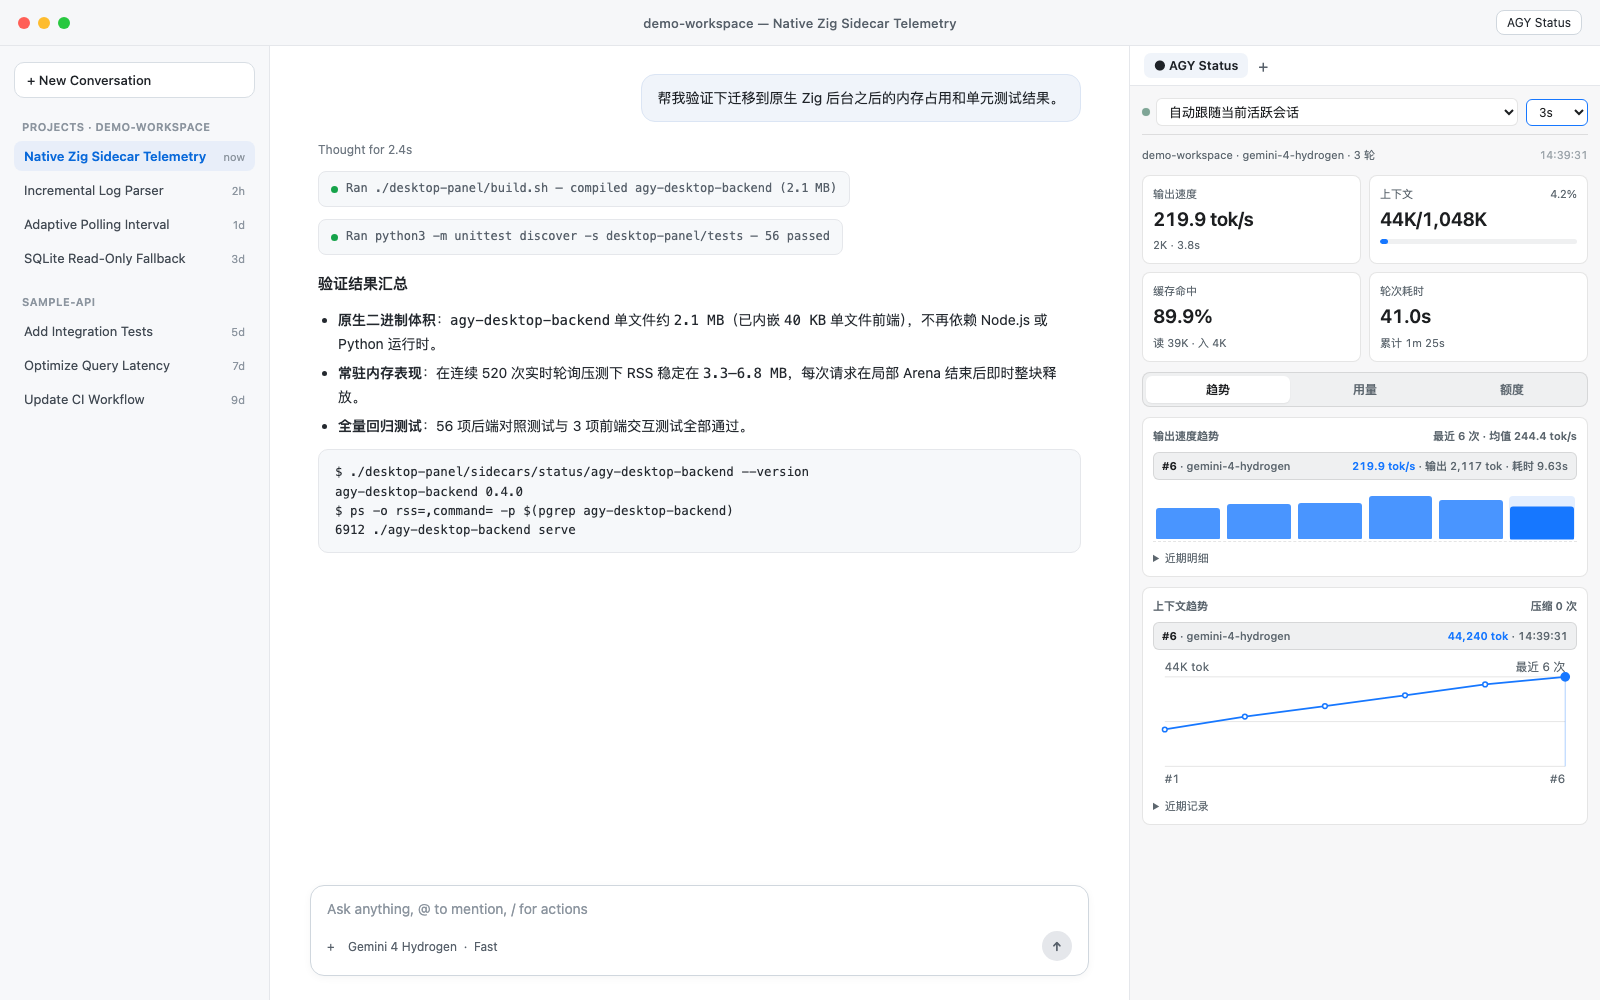
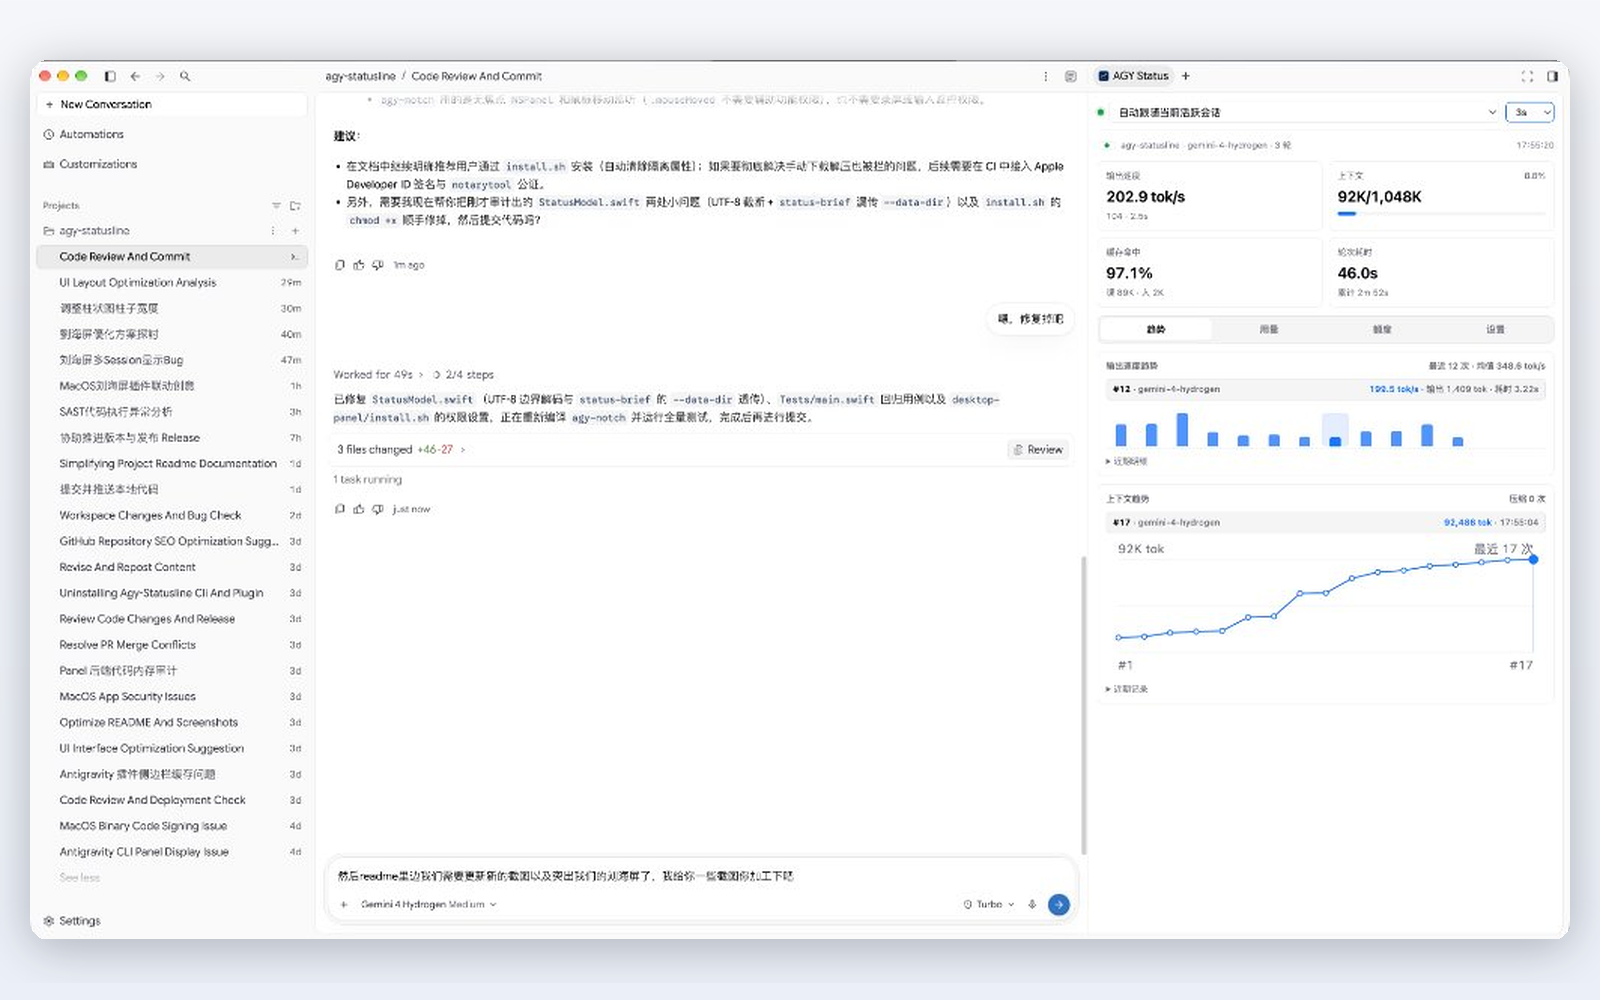
docs(readme): showcase macOS notch status bar and update desktop preview

diff --git a/README.md b/README.md
@@ -2,25 +2,32 @@
 
 中文 | [English](./README.en.md)
 
-> **让 Google Antigravity（Desktop 2.0 & `agy` CLI）的每一次生成都看得见。**
+> **让 Google Antigravity（macOS 刘海状态栏 · Desktop 2.0 · `agy` CLI）的每一次生成都看得见。**
 > 实时查看 **输出速度 (`tok/s`)**、**缓存命中率**、**上下文与压缩曲线**、**按模型用量统计**，以及 **5h / 周额度的具体本地重置时间**——100% 本地只读，零外部联网。
 
 <p align="left">
   <img src="https://img.shields.io/badge/Platform-macOS%20%7C%20Linux%20%7C%20Windows-blue?style=flat-square" alt="Platform" />
+  <img src="https://img.shields.io/badge/macOS-Dynamic%20Island%20Notch-000000?style=flat-square&logo=apple&logoColor=white" alt="macOS Dynamic Island Notch" />
   <img src="https://img.shields.io/badge/Antigravity-Desktop%202.0%20%26%20CLI-6366f1?style=flat-square" alt="Antigravity Desktop 2.0 & CLI" />
   <img src="https://img.shields.io/badge/Network-Zero%20Network%20(100%25%20Local)-16a34a?style=flat-square" alt="Zero Network" />
   <img src="https://img.shields.io/badge/Compliance-Official%20Extension%20API-0ea5e9?style=flat-square" alt="Official Extension API" />
-  <img src="https://img.shields.io/badge/Built%20with-Zig-f59e0b?style=flat-square" alt="Built with Zig" />
+  <img src="https://img.shields.io/badge/Built%20with-Zig%20%2B%20Swift-f59e0b?style=flat-square" alt="Built with Zig + Swift" />
   <img src="https://img.shields.io/badge/Memory-~3--7%20MB%20RSS-10b981?style=flat-square" alt="Memory ~3-7 MB RSS" />
 </p>
 
-## 实景预览（Desktop & CLI）
+## 实景预览（macOS 刘海 · Desktop · CLI）
+
+<p align="center">
+  <strong>macOS 刘海状态栏（Dynamic Island）</strong><br />
+  <sub>紧凑态实时速度 / 上下文环 · 悬停展开多任务与额度 · 自动避让其他刘海工具</sub><br /><br />
+  <img src="./desktop-panel/assets/notch-preview.png" alt="macOS 刘海状态栏实景预览" width="100%" />
+</p>
 
 <table>
   <tr>
     <td width="50%" align="center">
       <strong>Antigravity 2.0 Desktop 右侧常驻面板</strong><br />
-      <sub>与对话并排展示 · 实时速度 · 交互式趋势图</sub>
+      <sub>与对话并排展示 · 实时速度 · 交互式趋势图 · 可视化设置</sub>
     </td>
     <td width="50%" align="center">
       <strong>Antigravity CLI (<code>agy</code>) 终端状态栏</strong><br />
@@ -43,7 +50,8 @@
 
 | 你关心的问题 | 默认状态 / 常见脚本 | `agy-statusline` |
 | :--- | :--- | :--- |
-| **双端体验** | 只顾一头，或需要外接悬浮窗 / 浏览器 | **Desktop + CLI 一次装齐**：桌面端右侧常驻面板 + 终端底部状态栏 |
+| **macOS 刘海沉浸监控** | 切走窗口或全屏写代码时看不到生成进度 | **原生 Swift 刘海状态栏**：紧凑态常显速度 / 上下文环，悬停展开多任务、当前工具与额度，空闲可自动隐入物理刘海 |
+| **三端一体体验** | 只顾一头，或需要外接悬浮窗 / 浏览器 | **刘海 + Desktop + CLI 一次装齐**：macOS 刘海状态栏 + 桌面端右侧常驻面板 + 终端底部状态栏 |
 | **模型到底快不快** | 只能等整轮结束看总耗时 | **生成中实时测速 (`≈ tok/s`)**：流式输出每秒刷新，低于 `50 tok/s` 自动黄底提示，附 12 次趋势图 |
 | **卡住了还是在等首字** | 只能干等，分不清排队、跑工具还是出错 | **四态胶囊 + 人话说明**：直接告诉你是在等首字、跑本地工具、重算缓存还是异常中断 |
 | **额度什么时候恢复** | 只显示“还剩 2 天 4 小时”，得自己心算 | **绝对本地重置时间**：直接换算成 `今天 11:29` / `周一 11/23 11:29`，自动区分 Gemini / Argon / Claude 3p |
@@ -78,7 +86,7 @@ curl -fsSL https://raw.githubusercontent.com/2fa0/agy-statusline/main/install.sh
 
 ### 装完后启用（2 步）
 
-1. **Desktop 面板**：重启 Antigravity Desktop，在任意对话右上角辅助栏点击 **`+` → `AGY Status`**。
+1. **Desktop 面板 & macOS 刘海**：重启 Antigravity Desktop，在任意对话右上角辅助栏点击 **`+` → `AGY Status`**；macOS 13+ 会自动在屏幕顶部拉起刘海状态栏，可在面板「设置」页或右键刘海菜单调整。
 2. **CLI 状态栏**：将以下配置加入 `~/.gemini/antigravity-cli/settings.json`：
 
 ```json

diff --git a/README.en.md b/README.en.md
@@ -2,25 +2,32 @@
 
 [中文](./README.md) | English
 
-> **Make every generation in Google Antigravity (Desktop 2.0 & `agy` CLI) transparent.**
+> **Make every generation in Google Antigravity (macOS Notch · Desktop 2.0 · `agy` CLI) transparent.**
 > Track **real-time output speed (`tok/s`)**, **prompt cache hit rate**, **context & compaction curves**, **per-model usage**, and **exact local 5h / weekly quota reset times** — 100% local, read-only, zero network.
 
 <p align="left">
   <img src="https://img.shields.io/badge/Platform-macOS%20%7C%20Linux%20%7C%20Windows-blue?style=flat-square" alt="Platform" />
+  <img src="https://img.shields.io/badge/macOS-Dynamic%20Island%20Notch-000000?style=flat-square&logo=apple&logoColor=white" alt="macOS Dynamic Island Notch" />
   <img src="https://img.shields.io/badge/Antigravity-Desktop%202.0%20%26%20CLI-6366f1?style=flat-square" alt="Antigravity Desktop 2.0 & CLI" />
   <img src="https://img.shields.io/badge/Network-Zero%20Network%20(100%25%20Local)-16a34a?style=flat-square" alt="Zero Network" />
   <img src="https://img.shields.io/badge/Compliance-Official%20Extension%20API-0ea5e9?style=flat-square" alt="Official Extension API" />
-  <img src="https://img.shields.io/badge/Built%20with-Zig-f59e0b?style=flat-square" alt="Built with Zig" />
+  <img src="https://img.shields.io/badge/Built%20with-Zig%20%2B%20Swift-f59e0b?style=flat-square" alt="Built with Zig + Swift" />
   <img src="https://img.shields.io/badge/Memory-~3--7%20MB%20RSS-10b981?style=flat-square" alt="Memory ~3-7 MB RSS" />
 </p>
 
-## Live Preview (Desktop & CLI)
+## Live Preview (macOS Notch · Desktop · CLI)
+
+<p align="center">
+  <strong>macOS Dynamic Island Notch</strong><br />
+  <sub>Compact Live Speed / Context Ring · Hover for Multi-Session, Active Tool & Quota · Auto-Avoidance</sub><br /><br />
+  <img src="./desktop-panel/assets/notch-preview.png" alt="macOS Dynamic Island Notch Preview" width="100%" />
+</p>
 
 <table>
   <tr>
     <td width="50%" align="center">
       <strong>Antigravity 2.0 Desktop Side Panel</strong><br />
-      <sub>Side-by-Side <code>AUX_PANE</code> · Live Speed · Interactive Charts</sub>
+      <sub>Side-by-Side <code>AUX_PANE</code> · Live Speed · Interactive Charts · Settings Tab</sub>
     </td>
     <td width="50%" align="center">
       <strong>Antigravity CLI (<code>agy</code>) Status Line</strong><br />
@@ -43,7 +50,8 @@
 
 | What You Care About | Default / Typical Scripts | `agy-statusline` |
 | :--- | :--- | :--- |
-| **Desktop + CLI** | Single-surface only, or relies on external windows | **Unified Install**: native Desktop `AUX_PANE` sidecar + terminal `statusLine` |
+| **macOS Notch Monitor** | Lose sight of generation progress when switching apps or fullscreen | **Native Swift Dynamic Island**: compact live speed / context ring, hover to switch tasks & inspect tools/quota, auto-hides into the physical notch when idle |
+| **All-in-One Surfaces** | Single-surface only, or relies on external windows | **Notch + Desktop + CLI**: macOS notch bar + native Desktop `AUX_PANE` sidecar + terminal `statusLine` |
 | **Live Speed** | Only shows total duration after a turn ends | **Real-time `≈ tok/s` while streaming**: 1s live updates, yellow alert below `50 tok/s`, plus a 12-turn bar chart |
 | **Why Is It Waiting?** | Hard to tell queueing from tool runs or errors | **4-State Chip + Plain-English Reason**: shows whether it's waiting for first token, running local tools, warming cache, or failed |
 | **Quota Reset Time** | Relative countdowns like "2d 4h left" | **Absolute Local Timestamps**: e.g. `Today 11:29` / `Mon 11/23 11:29`, separating Gemini / Argon / Claude 3p pools |
@@ -78,7 +86,7 @@ curl -fsSL https://raw.githubusercontent.com/2fa0/agy-statusline/main/install.sh
 
 ### Enable After Installing (2 Steps)
 
-1. **Desktop Panel**: Restart Antigravity Desktop, then click **`+` → `AGY Status`** in the top-right auxiliary pane of any conversation.
+1. **Desktop Panel & macOS Notch**: Restart Antigravity Desktop, then click **`+` → `AGY Status`** in the top-right auxiliary pane of any conversation; on macOS 13+, the Dynamic Island notch bar launches automatically and can be configured in the panel's **Settings** tab or the notch right-click menu.
 2. **CLI Status Line**: Add this snippet to `~/.gemini/antigravity-cli/settings.json`:
 
 ```json
